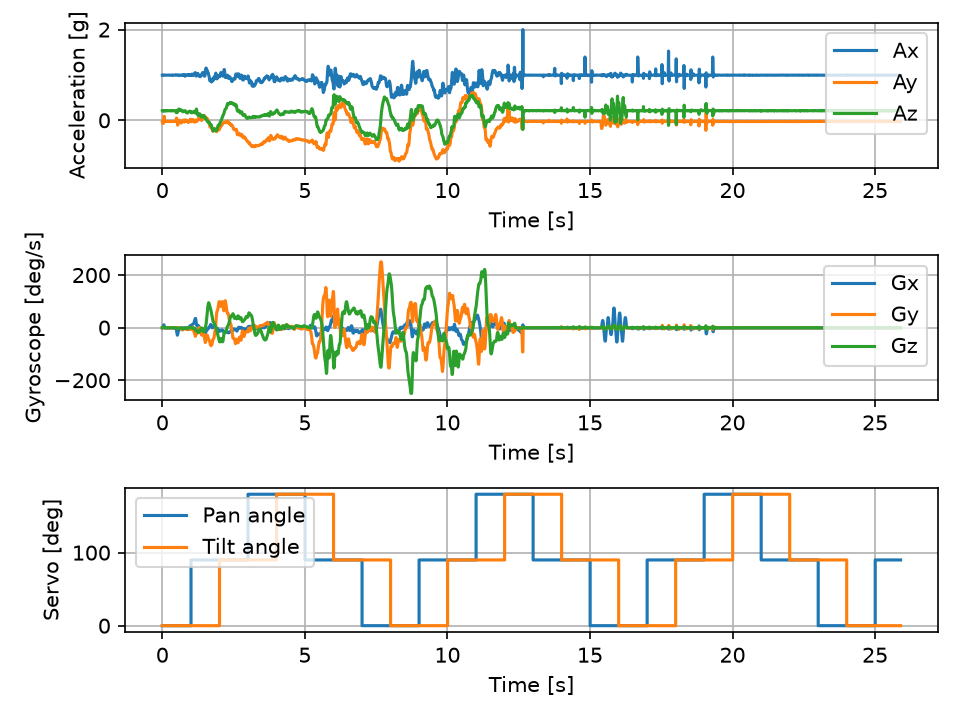
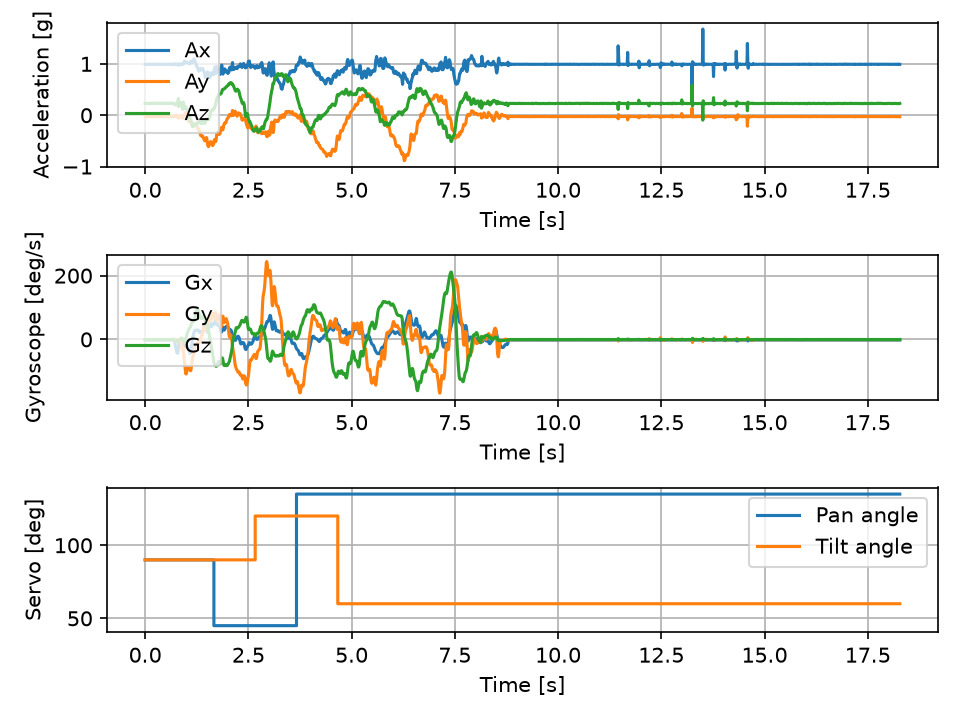
added UART driver and CMD parser for servo control from PC

diff --git a/firmware/main/main.c b/firmware/main/main.c
@@ -7,6 +7,7 @@
 #include "mpu6050.h"
 #include "esp_timer.h"
 #include "servo.h"
+#include "driver/uart.h"
 
 static const char* TAG = "MAIN";
 
@@ -63,46 +64,47 @@ void app_main(void) {
     ESP_LOGI(TAG, "Successful servo initialization");
 
 
-    float pan_angles[] = {0.0f, 90.0f, 180.0f, 90.0f};
-    float tilt_angles[] = {0.0f, 90.0f, 180.0f, 90.0f};
-    int pan_i = 0;
-    int tilt_i = 0;
-    bool move_pan = true;
+    float pan_angle = 90.0f;
+    float tilt_angle = 90.0f;
+    uint8_t rx_buff[64];
 
-    servo_angle(SERVO_PAN, pan_angles[0]);
-    servo_angle(SERVO_TILT, tilt_angles[0]);
+    servo_angle(SERVO_PAN, pan_angle);
+    servo_angle(SERVO_TILT, tilt_angle);
 
-    uint32_t last_servo_ms = (uint32_t)(esp_timer_get_time() / 1000);
+
+    status_servo = uart_driver_install(UART_NUM_0, 256, 0, 0, NULL, 0);
+    if (status_servo != ESP_OK) {
+        ESP_LOGE(TAG, "Failed UART driver installation: %s", esp_err_to_name(status_servo));
+        return;
+    }
+    ESP_LOGI(TAG, "Successful UART driver installation");
+
     TickType_t last_wake_time = xTaskGetTickCount();
     const TickType_t period_ticks = pdMS_TO_TICKS(10);
 
     while (1) {
 
         status_mpu650 = mpu6050_read_raw(mpu_device, &sensor_data);
+
         uint32_t time_ms = (uint32_t)(esp_timer_get_time() / 1000);
 
-        if ((time_ms - last_servo_ms) >= 1000) {
-            last_servo_ms += 1000;
+        int len = uart_read_bytes(UART_NUM_0, rx_buff, sizeof(rx_buff) - 1, 0);
 
-            if (move_pan) {
-                ++pan_i;
-                if (pan_i >= 4) {
-                    pan_i = 0;
-                }
-                servo_angle(SERVO_PAN, pan_angles[pan_i]);
-
-            } else {
-                ++tilt_i;
-                if (tilt_i >= 4) {
-                    tilt_i = 0;
-                }
-                servo_angle(SERVO_TILT, tilt_angles[tilt_i]);
+        if (len > 0) {
+            rx_buff[len] = '\0';
+            float new_pan;
+            float new_tilt;
+            if (sscanf((char*)rx_buff, "CMD,%f,%f", &new_pan, &new_tilt) >= 2) {
+                pan_angle = new_pan;
+                tilt_angle = new_tilt;
+                servo_angle(SERVO_PAN, pan_angle);
+                servo_angle(SERVO_TILT, tilt_angle);
             }
-            move_pan = !move_pan;
         }
 
+
         if (status_mpu650 == ESP_OK) {
-            printf("DATA,%lu,%d,%d,%d,%d,%d,%d,%d,%.1f,%.1f\n", (unsigned long)time_ms, sensor_data.accel_x, sensor_data.accel_y, sensor_data.accel_z, sensor_data.temp, sensor_data.gyro_x, sensor_data.gyro_y, sensor_data.gyro_z, pan_angles[pan_i], tilt_angles[tilt_i]);
+            printf("DATA,%lu,%d,%d,%d,%d,%d,%d,%d,%.1f,%.1f\n", (unsigned long)time_ms, sensor_data.accel_x, sensor_data.accel_y, sensor_data.accel_z, sensor_data.temp, sensor_data.gyro_x, sensor_data.gyro_y, sensor_data.gyro_z, pan_angle, tilt_angle);
         } else {
             ESP_LOGE(TAG, "Failed MPU6050 read");
         }

diff --git a/host/reader.py b/host/reader.py
@@ -6,8 +6,25 @@ f = open("data.csv", "w")
 f.write("time_ms,ax,ay,az,temp_raw,gx,gy,gz,pan_deg,tilt_deg\n")
 f.flush()
 
+
 try:
+    start_time = time.time()
+    step = 0
     while True:
+        elapsed = time.time() - start_time
+        if elapsed > 2.0 and step == 0:
+            ser.write(b"CMD,45.0,90.0\n")
+            step = 1
+        elif elapsed > 3.0 and step == 1:
+            ser.write(b"CMD,45.0,120.0\n")
+            step = 2
+        elif elapsed > 4.0 and step == 2:   
+            ser.write(b"CMD,135.0,120.0\n")
+            step = 3
+        elif elapsed > 5.0 and step == 3: 
+            ser.write(b"CMD,135.0,60.0\n")
+            step = 4
+
         line = ser.readline()
         if line:
             final_text = line.decode('utf-8', errors='ignore').strip()

diff --git a/README.md b/README.md
@@ -18,17 +18,19 @@ Sensors on the rig:
 ## Todo / Progress
 
 - [x] ESP-IDF I2C master driver (GPIO 21/22)
-- [x] MPU-6050 communication check (WHO_AM_I returns 0x72 instead of 0x68 due to the clone chip on the GY-521 board)
+- [x] MPU-6050 communication check (WHO_AM_I returns 0x72 instead of 0x68, since the GY-521 board has a clone chip)
 - [x] Python serial reader and CSV logger (host/reader.py)
-- [x] 14-byte burst read for accel, temp, and gyro
+- [x] 14-byte burst read for accel, temp and gyro
 - [x] 100 Hz sampling loop + 44 Hz hardware low-pass filter (DLPF = 0x03)
-- [x] Python script to plot acceleration and gyro data (host/imuplot.py)
+- [x] Python script to plot accel and gyro data (host/plot.py)
 - [x] PWM control for the SG90 servos (LEDC driver)
+- [x] Staggered servo movement, so the USB port doesn't brown out
+- [x] Two-way UART: the ESP32 reads commands (CMD,pan,tilt) without blocking the main loop
 - [ ] GPIO switching for the laser transistor
 - [ ] Read both AS5600 encoders
-- [ ] Add BMP280, AHT20, INA219, and BH1750 drivers
+- [ ] Add BMP280, AHT20, INA219 and BH1750 drivers
 - [ ] SSD1306 OLED and MicroSD SPI logging
-- [ ] OpenCV script to find laser spot (X, Y) coordinates
+- [ ] OpenCV script to find the laser spot (X, Y) coordinates
 - [ ] Closed-loop serial tracking
 
 ## I2C Addresses
@@ -48,20 +50,23 @@ All sensors use 3.3V logic. Both AS5600 encoders share the same fixed address (0
 
 Other pins (servo PWM, laser transistor, SPI) are listed in docs/wiring.md.
 
-## 100 Hz IMU Test
+## IMU Data & UART Control Test
 
-The ESP32 reads the MPU-6050 at 100 Hz (10 ms loop) over I2C at 400 kHz. Because the raw readings were noisy without filtering, the internal 44 Hz low-pass filter is enabled (register 0x1A set to 0x03). Raw values are sent over serial, saved to data.csv, and converted to g (±2g scale -> 16384 LSB/g) and deg/s (±250 deg/s scale -> 131.072 LSB/(deg/s)).
+MPU-6050 at 100 Hz (sample rate divider 9, DLPF 44 Hz), +-2 g and +-250 deg/s. Servo commands are sent from the PC over UART while the IMU keeps streaming. The IMU board is not mounted on the servos, so its motion is independent of them.
 
-Two SG90 servos (pan and tilt) are also driven by the ESP32, moving one at a time: every 1 s one of them steps to the next angle, so each servo changes position every 2 s. The angles plotted are the commanded ones, not measured.
+![IMU and servo test](docs/imu_100hz_validation.png)
 
-![IMU test](docs/imu_100hz_validation.png)
+- 0 - 1.7 s: board at rest, gravity mostly on X (~1 g)
+- 1.7 - 8.8 s: I moved the breadboard by hand, so accel and gyro vary a lot (gyro up to about 250 deg/s)
+- 1.67 s: pan 90 -> 45
+- 2.67 s: tilt 90 -> 120
+- 3.67 s: pan 45 -> 135
+- 4.67 s: tilt 120 -> 60
+- 8.8 - 11 s: board left still, gyro ~0 and accel flat
+- 11 - 15 s: I tapped the board to generate vibrations (short spikes in accel and gyro) while the servos stayed at their last position
+- 15 - 18 s: still again
 
-Measured sampling rate is 100.0 Hz with 2591 samples in about 26 s, so no reads were lost. 
-First ~12.5 s: tilting and rotating the breadboard by hand (the gyro reaches the ±250 deg/s limit around 7.7s and 8.7s). 
-After that the board is left flat on the desk while the servos keep stepping. 
-The spikes between 13s and 19.5s are from tapping the desk and breadboard. 
-The sensor is not attached to the servos, so their movement doesn't show up in the data. 
-Ax stays around 1g and Az around 0.2g at rest since the sensor module sits slightly crooked on the pins.
+Servos are moved one axis per second to avoid the inrush current (around 1.3 A) that can brown out the ESP32.
 
 ## How to run
 
